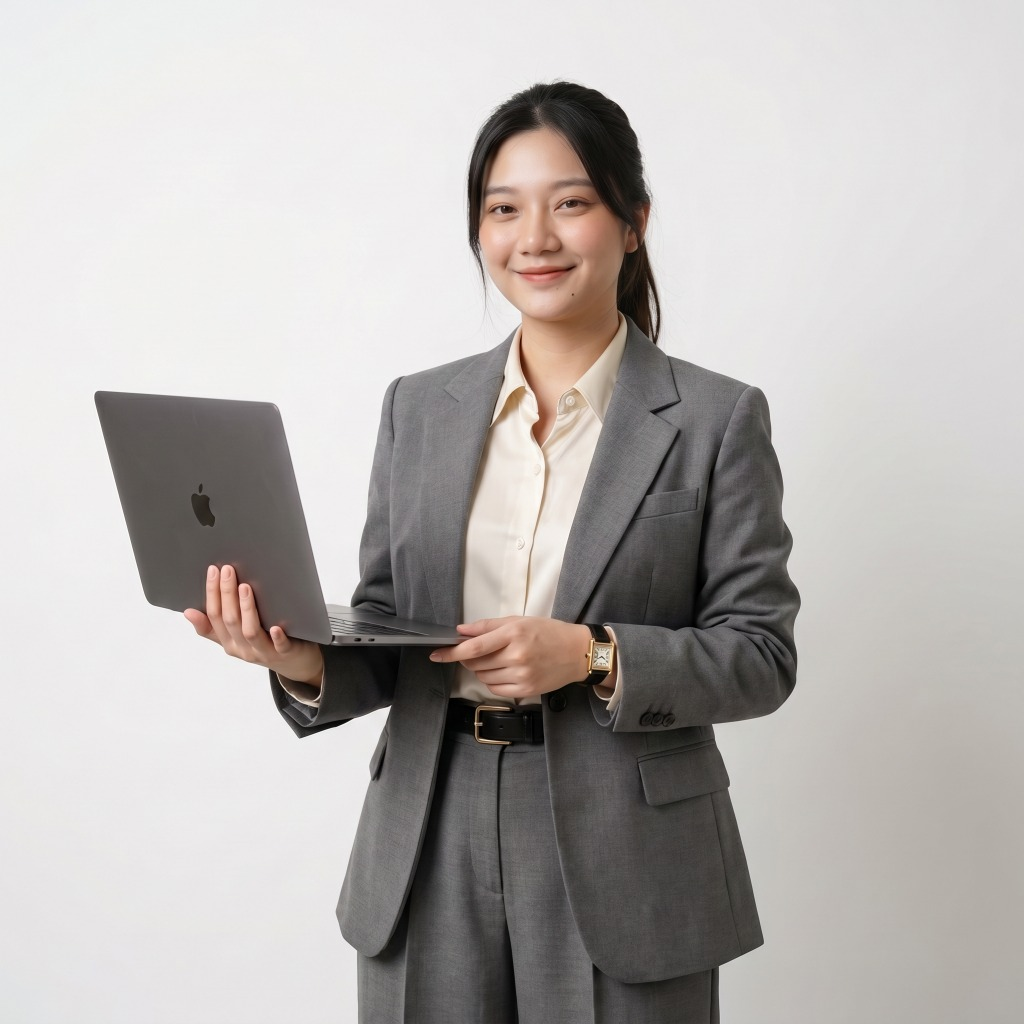
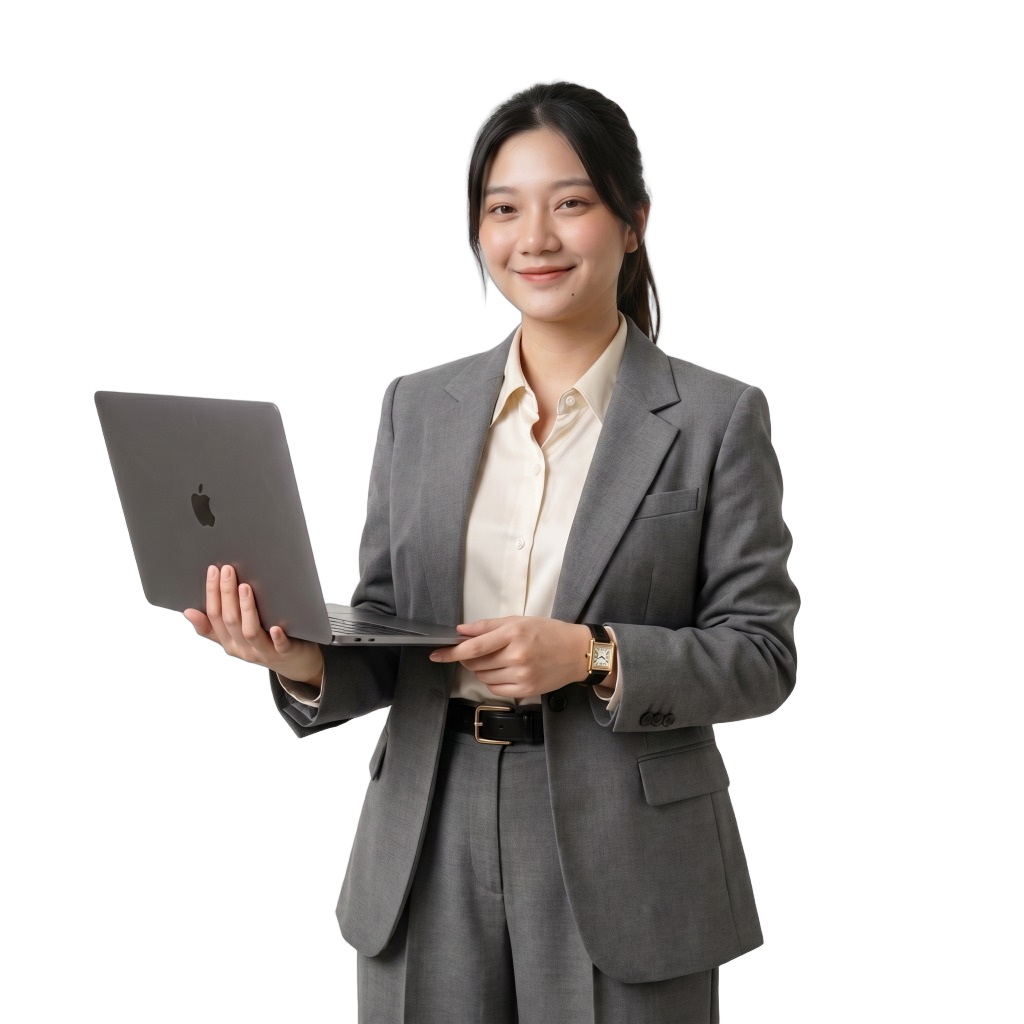
fix: make hero model transparent PNG and adjust scale proportions

diff --git a/components/Hero.module.css b/components/Hero.module.css
@@ -29,7 +29,7 @@
 
 .grid {
     display: grid;
-    grid-template-columns: 1.1fr 0.9fr;
+    grid-template-columns: 1fr 1fr;
     align-items: center;
     gap: var(--space-12);
     min-height: 750px;
@@ -117,16 +117,20 @@
 .imageWrapper {
     position: relative;
     width: 100%;
-    max-width: 800px;
+    max-width: 850px;
+    display: flex;
+    justify-content: center;
+    align-items: center;
 }
 
 .mainImage {
-    width: 115%;
+    width: 120%;
+    max-width: none;
     height: auto;
     object-fit: contain;
-    margin-right: -10%;
-    /* Try to force background transparency if it's not actually a PNG */
-    mix-blend-mode: multiply;
+    filter: drop-shadow(0 20px 40px rgba(11, 31, 59, 0.08));
+    transform: scale(1.05);
+    transform-origin: bottom center;
 }
 
 .badgeRating,
@@ -140,19 +144,19 @@
     align-items: center;
     gap: 16px;
     box-shadow: 
-        0 8px 32px rgba(0,0,0,0.08);
+        0 12px 36px rgba(0,0,0,0.1);
     border: 1px solid rgba(255,255,255,1);
     z-index: 20;
 }
 
 .badgeRating {
-    top: 5%;
-    right: -10px;
+    top: 6%;
+    right: -15px;
 }
 
 .badgeMetrics {
-    bottom: 20%;
-    left: -20px;
+    bottom: 12%;
+    left: -25px;
 }
 
 .badgeIcon,
